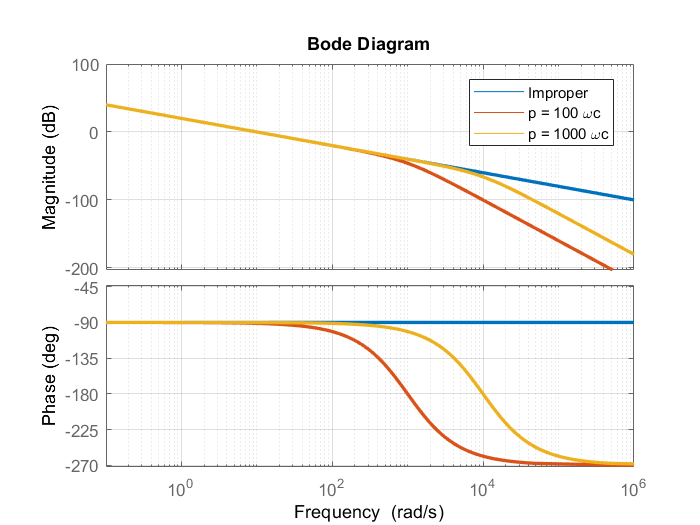
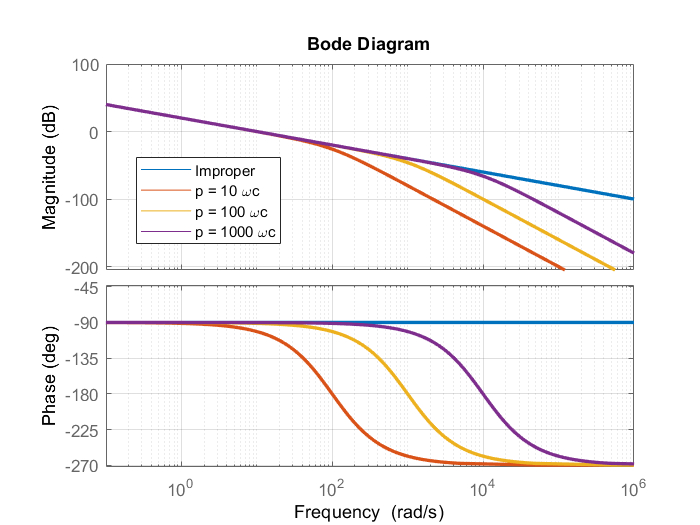
teamwörk
final tuning and plotting

diff --git a/Exc1/compExc1Task2.m b/Exc1/compExc1Task2.m
@@ -11,22 +11,23 @@ wc = 9.95; % rad/s avlest fran bode av G
 
 Fy = 1/G*wc/s;
 
-p0 = 100*wc;
-p1 = 1000*wc;
+p10     = 10*wc;
+p100    = 100*wc;
+p1000   = 1000*wc;
 
-Fy0 = p0*p0*Fy/((s+p0)^2);
-Fy1 = p1*p1*Fy/((s+p1)^2);
+Fy0 = p10*p10*Fy/((s+p10)^2);
+Fy1 = p100*p100*Fy/((s+p100)^2);
+Fy2 = p1000*p1000*Fy/((s+p1000)^2);
 
-
-figure; bode(Fy*G,Fy0*G,Fy1*G); grid on; 
-legend('Improper','p = 100 \omegac','p = 1000 \omegac'); 
+figure(1); bode(Fy*G,Fy0*G,Fy1*G,Fy2*G); grid on; 
+legend('Improper','p = 10 \omegac','p = 100 \omegac', 'p = 1000 \omegac'); 
 lines = findobj(gcf,'Type','Line');
 for i = 1:numel(lines)
   lines(i).LineWidth = 2.0;
 end
 
-figure(3); step(1/(1+Fy*G)*Gd, 1/(1+Fy0*G)*Gd,1/(1+Fy1*G)*Gd);
-legend('Improper','p = 100 \omegac','p = 1000 \omegac'); 
+figure(3); step(1/(1+Fy*G)*Gd, 1/(1+Fy0*G)*Gd , 1/(1+Fy1*G)*G);
+legend('Improper','p = 10 \omegac','p = 100 \omegac'); 
 lines = findobj(gcf,'Type','Line');
 for i = 1:numel(lines)
   lines(i).LineWidth = 2.0;
@@ -67,20 +68,27 @@ figure(8); step(Fy2*G/(1+Fy*G))
 
 % first add lead action to F_y to reduce overshoot
 wi = 6; 
-p1 = 100 * wc; 
+p1 = 10 * wc; 
 Fy = (s + wi)/s*1/G*Gd;
 Fy2 = Fy /((s+p1)^2)*p1^2;
 
 % How do we tune these paramters!?
-Beta = 0.5;
-Tau_d =0.09;
-K = 1.05;
-lead = K * (Tau_d * s + 1) / ( Beta * Tau_d  * s +1); 
+wc = 10
+% desired wc = 1 rad/s
+[m,p] =bode(Fy2*G,wc)
+K1 = 1/m
+% figure; bode(Fy2*G*K1)
+Beta = 0.4903;
+Tau_d = 1/(wc*sqrt(Beta));
+% K1 = 1.0517
+
+lead = K1 * (Tau_d * s + 1) / ( Beta * Tau_d  * s +1); 
 
 % check if Fy3 reduces overshoot: 
 Fy3 = Fy2 * lead;
 closed_2 = 1/(1+Fy2*G)*Fy2*G;
 closed_3 = 1/(1+Fy3*G)*Fy3*G;
+figure(9);clf
 hold on
 step(closed_2);
 step(closed_3);
@@ -89,7 +97,41 @@ grid on
 hold off
 stepinfo(closed_3) % overshoot is < 10%!
 
+% Designing Fr filter
 % design Fr: WIP
-
-Tau = 0; 
+L = Fy3*G;
+S = 1/(1 + L);
+T = L/(1+L);
+Tau = 0.5; 
 Fr = 1 / (1 + Tau * s); 
+
+figure(3); clf; hold on; 
+step(Fy3*Fr*S); step(Fy3*Gd*S); step(Fy3*Fr*S-Fy3*Gd*S)
+title('Magnitude of u signals')
+
+%% Checking _ALL_ coonditions!!!!!!!!!!!!!!!!!!!!!!!!!
+figure(11);
+subplot(1,3,1); step(closed_3); title('step r -> y'); grid on
+subplot(1,3,2); step(1/(1+Fy*G)*Gd); grid on; title('step d -> y')
+subplot(1,3,3); hold on; 
+step(Fy3*Fr*S); step(Fy3*Gd*S); step(Fy3*Fr*S-Fy3*Gd*S);legend('Fr*Fy*S','Fy*Gd*S','Fr*Fy*S-Fy*Gd*S'); grid on
+title('|u|')
+
+lines = findobj(gcf,'Type','Line');
+for i = 1:numel(lines)
+  lines(i).LineWidth = 1.5;
+end
+
+figure(12);
+subplot(1,2,1);
+bodemag(S); title('S(i\omega)'); grid on
+subplot(1,2,2);
+bodemag(T); title('T(i\omega)'); grid on
+
+
+
+lines = findobj(gcf,'Type','Line');
+for i = 1:numel(lines)
+  lines(i).LineWidth = 1.5;
+end
+
